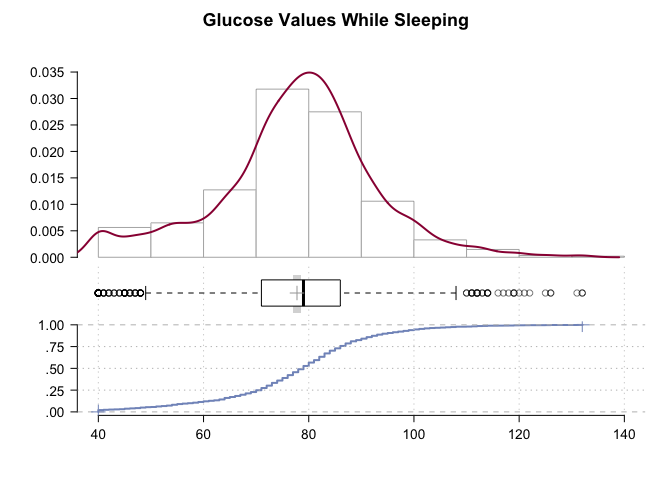
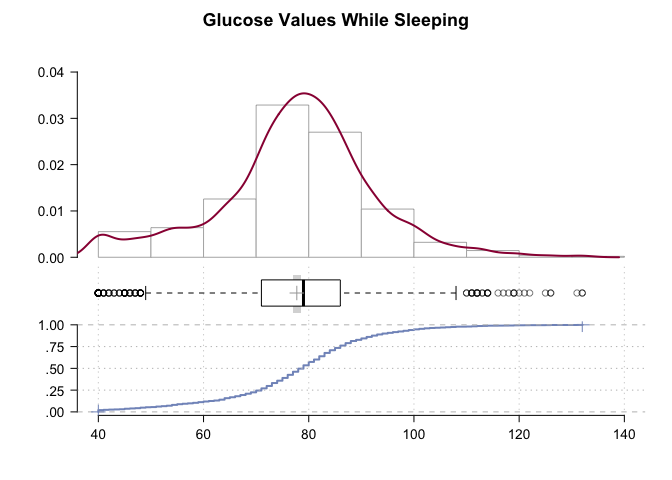
4/17 data

diff --git a/README.md b/README.md
@@ -1,7 +1,7 @@
 Continuous Glucose Monitoring with Freestyle Libre
 ================
 Richard Sprague
-2019-04-16
+2019-04-17
 
 See [Continous Glucose Monitoring: Start Here](http://richardsprague.com/notes/continuous-glucose-monitoring/)
 
@@ -218,7 +218,7 @@ glucose %>% filter(apply(sapply(glucose$time,
     ## ------------------------------------------------------------------------- 
     ## Describe . (tbl_df, tbl, data.frame):
     ## 
-    ## data.frame:  1492 obs. of  1 variables
+    ## data.frame:  1518 obs. of  1 variables
     ## 
     ##   Nr  ColName  Class    NAs  Levels
     ##   1   value    numeric  .          
@@ -228,14 +228,14 @@ glucose %>% filter(apply(sapply(glucose$time,
     ## Glucose Values While Sleeping
     ## 
     ##   length       n    NAs  unique     0s   mean  meanCI
-    ##    1'492   1'492      0      85      0  77.77   77.01
-    ##           100.0%   0.0%           0.0%          78.52
+    ##    1'518   1'518      0      85      0  77.73   76.98
+    ##           100.0%   0.0%           0.0%          78.48
     ##                                                      
     ##      .05     .10    .25  median    .75    .90     .95
-    ##    49.00   58.00  71.00   79.00  86.00  95.00  101.00
+    ##    49.00   58.00  71.00   79.00  86.00  94.30  101.00
     ##                                                      
     ##    range      sd  vcoef     mad    IQR   skew    kurt
-    ##    92.00   14.93   0.19   11.86  15.00  -0.17    0.81
+    ##    92.00   14.81   0.19   11.86  15.00  -0.16    0.87
     ##                                                      
     ## lowest : 40.0 (31), 41.0 (5), 42.0 (4), 43.0 (3), 44.0 (3)
     ## highest: 122.0, 125.0, 126.0 (2), 131.0, 132.0 (2)
@@ -253,7 +253,7 @@ glucose %>% filter(apply(sapply(glucose$time,
     ## ------------------------------------------------------------------------- 
     ## Describe . (tbl_df, tbl, data.frame):
     ## 
-    ## data.frame:  5642 obs. of  1 variables
+    ## data.frame:  5779 obs. of  1 variables
     ## 
     ##   Nr  ColName  Class    NAs        Levels
     ##   1   value    numeric  38 (0.7%)        
@@ -263,14 +263,14 @@ glucose %>% filter(apply(sapply(glucose$time,
     ## Glucose Values While Awake
     ## 
     ##   length      n    NAs  unique     0s    mean  meanCI
-    ##    5'642  5'604     38     126      0   88.83   88.33
-    ##           99.3%   0.7%           0.0%           89.34
+    ##    5'779  5'741     38     126      0   88.81   88.32
+    ##           99.3%   0.7%           0.0%           89.31
     ##                                                      
     ##      .05    .10    .25  median    .75     .90     .95
     ##    61.00  68.00  77.00   86.00  99.00  114.00  125.00
     ##                                                      
     ##    range     sd  vcoef     mad    IQR    skew    kurt
-    ##   151.00  19.32   0.22   16.31  22.00    0.67    1.31
+    ##   151.00  19.22   0.22   16.31  22.00    0.69    1.34
     ##                                                      
     ## lowest : 40.0 (33), 41.0 (5), 42.0 (5), 43.0 (3), 44.0 (7)
     ## highest: 169.0 (2), 172.0, 187.0, 188.0, 191.0
